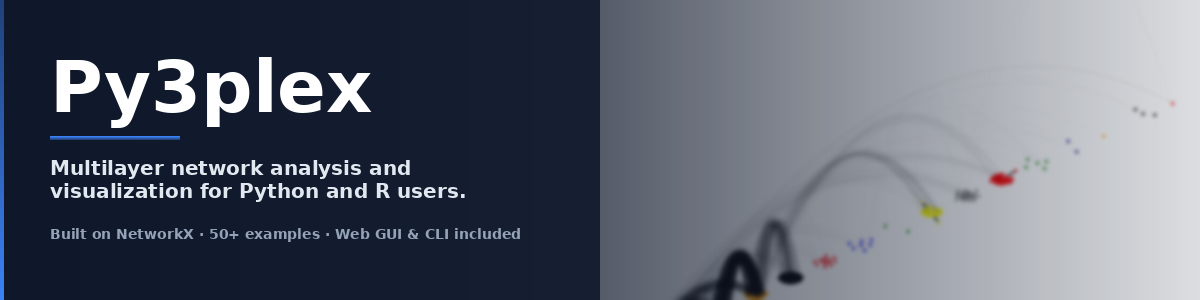
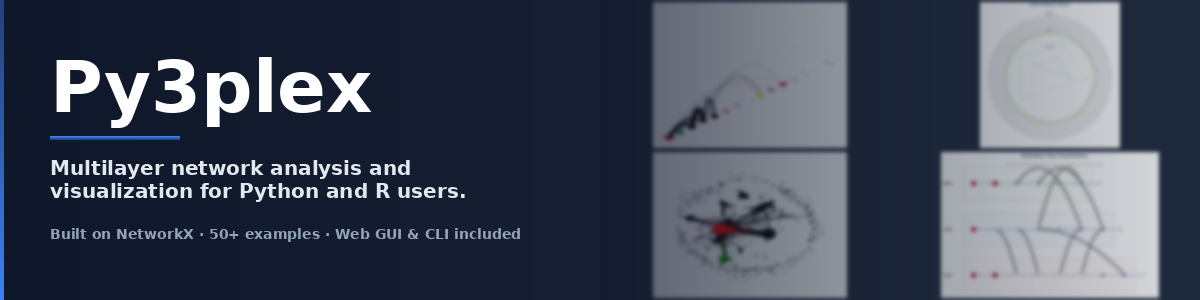
Replace single image with 2x2 mosaic grid showing diverse visualizations

diff --git a/create_hero_banner.py b/create_hero_banner.py
@@ -3,7 +3,7 @@ Create a professional hero banner for the Py3plex README.
 
 This script creates a modern, polished hero banner (1200x300 px) with:
 - Left side: Text block with gradient background and professional typography
-- Right side: Network visualization with sophisticated overlay effects
+- Right side: Mosaic of network visualizations showing diverse capabilities
 
 The banner uses a premium design with gradients, shadows, and accent colors.
 """
@@ -64,9 +64,82 @@ def add_glow_effect(draw, position, text, font, color, glow_color, glow_radius=2
     draw.text(position, text, fill=color, font=font)
 
 
+def create_mosaic(image_paths, mosaic_width, mosaic_height, grid_rows=2, grid_cols=2):
+    """
+    Create a mosaic of multiple images arranged in a grid.
+
+    Args:
+        image_paths: List of paths to images to include in mosaic
+        mosaic_width: Width of the resulting mosaic
+        mosaic_height: Height of the resulting mosaic
+        grid_rows: Number of rows in the grid
+        grid_cols: Number of columns in the grid
+
+    Returns:
+        PIL Image object containing the mosaic
+    """
+    # Create blank canvas for mosaic
+    mosaic = Image.new("RGB", (mosaic_width, mosaic_height), GRADIENT_END)
+
+    # Calculate cell dimensions
+    cell_width = mosaic_width // grid_cols
+    cell_height = mosaic_height // grid_rows
+
+    # Spacing between images (small gap)
+    gap = 2
+
+    # Place images in grid
+    img_index = 0
+    for row in range(grid_rows):
+        for col in range(grid_cols):
+            if img_index >= len(image_paths):
+                break
+
+            try:
+                # Load and resize image to fit cell
+                img = Image.open(image_paths[img_index])
+
+                # Calculate target size (with gap consideration)
+                target_width = cell_width - gap * 2
+                target_height = cell_height - gap * 2
+
+                # Resize while maintaining aspect ratio
+                img_aspect = img.width / img.height
+                cell_aspect = target_width / target_height
+
+                if img_aspect > cell_aspect:
+                    # Image is wider - fit to width
+                    new_width = target_width
+                    new_height = int(target_width / img_aspect)
+                else:
+                    # Image is taller - fit to height
+                    new_height = target_height
+                    new_width = int(target_height * img_aspect)
+
+                # Resize with high quality
+                try:
+                    img = img.resize((new_width, new_height), Image.Resampling.LANCZOS)
+                except AttributeError:
+                    img = img.resize((new_width, new_height), Image.LANCZOS)
+
+                # Center the image in the cell
+                x_offset = col * cell_width + (cell_width - new_width) // 2
+                y_offset = row * cell_height + (cell_height - new_height) // 2
+
+                # Paste the image
+                mosaic.paste(img, (x_offset, y_offset))
+
+            except Exception as e:
+                print(f"Warning: Could not load {image_paths[img_index]}: {e}")
+
+            img_index += 1
+
+    return mosaic
+
+
 def create_hero_banner(
     output_path="example_images/py3plex_hero_banner.png",
-    source_image="example_images/multilayer.png",
+    source_images=None,
     width=1200,
     height=300,
 ):
@@ -75,56 +148,42 @@ def create_hero_banner(
 
     Args:
         output_path: Path where the banner will be saved
-        source_image: Path to the network visualization to use
+        source_images: List of paths to network visualizations for mosaic (default: predefined selection)
         width: Banner width in pixels (default: 1200)
         height: Banner height in pixels (default: 300)
     """
+
+    # Default selection of diverse network visualizations for mosaic
+    if source_images is None:
+        source_images = [
+            "example_images/multilayer.png",  # Diagonal plot with inter-links
+            "example_images/multilayer_radial_compact.png",  # Radial layout
+            "example_images/communities.png",  # Community detection
+            "example_images/multilayer_flow.png",  # Flow visualization
+        ]
 
     # Create gradient background
     banner = create_gradient_background(width, height, GRADIENT_START, GRADIENT_END)
     draw = ImageDraw.Draw(banner)
 
-    # --- Right side: Network visualization ---
-    # Load the source network image
+    # --- Right side: Network visualization mosaic ---
+    # Create mosaic from multiple network images
     try:
-        network_img = Image.open(source_image)
-        print(f"✓ Loaded source image: {source_image} ({network_img.size})")
-
         # Calculate dimensions for the right side using layout constant
         right_width = int(width * RIGHT_SECTION_RATIO)
         right_x = width - right_width
 
-        # Resize and crop the network image to fit the right side
-        # Maintain aspect ratio and center crop
-        aspect_ratio = network_img.width / network_img.height
-        if aspect_ratio > (right_width / height):
-            # Image is wider - fit to height
-            new_height = height
-            new_width = int(height * aspect_ratio)
-        else:
-            # Image is taller - fit to width
-            new_width = right_width
-            new_height = int(right_width / aspect_ratio)
+        print(f"✓ Creating mosaic from {len(source_images)} images...")
+        # Create mosaic (2x2 grid by default)
+        mosaic_img = create_mosaic(
+            source_images, right_width, height, grid_rows=2, grid_cols=2
+        )
 
-        # Use LANCZOS resampling (compatible with older Pillow versions)
-        try:
-            network_img = network_img.resize(
-                (new_width, new_height), Image.Resampling.LANCZOS
-            )
-        except AttributeError:
-            # Fallback for older Pillow versions
-            network_img = network_img.resize((new_width, new_height), Image.LANCZOS)
+        # Apply a subtle blur for a sophisticated look
+        mosaic_img = mosaic_img.filter(ImageFilter.GaussianBlur(radius=BLUR_RADIUS))
 
-        # Center crop to exact dimensions
-        left = (new_width - right_width) // 2
-        top = (new_height - height) // 2
-        network_img = network_img.crop((left, top, left + right_width, top + height))
-
-        # Apply a moderate blur for a sophisticated look
-        network_img = network_img.filter(ImageFilter.GaussianBlur(radius=BLUR_RADIUS))
-
-        # Paste the network image on the right side
-        banner.paste(network_img, (right_x, 0))
+        # Paste the mosaic on the right side
+        banner.paste(mosaic_img, (right_x, 0))
 
         # Add a sophisticated gradient overlay from left to right
         # This creates depth and ensures text is readable
@@ -149,10 +208,10 @@ def create_hero_banner(
         banner = banner_rgba.convert("RGB")
         draw = ImageDraw.Draw(banner)
 
-        print("✓ Network visualization applied to right side")
+        print("✓ Mosaic visualization applied to right side")
 
     except Exception as e:
-        print(f"Warning: Could not load source image: {e}")
+        print(f"Warning: Could not create mosaic: {e}")
         print("Continuing with text-only banner...")
 
     # --- Left side: Professional text block ---
@@ -277,15 +336,34 @@ def main():
 
     # Configuration
     # You can change these paths if needed:
-    source_image = "example_images/multilayer.png"
+    source_images = [
+        "example_images/multilayer.png",  # Diagonal plot with inter-links
+        "example_images/multilayer_radial_compact.png",  # Radial layout
+        "example_images/communities.png",  # Community detection
+        "example_images/multilayer_flow.png",  # Flow visualization
+    ]
     output_path = "example_images/py3plex_hero_banner.png"
 
-    # Alternative source images you can try:
-    # - "example_images/multilayer_radial_compact.png" (radial/circular layout)
-    # - "example_images/multilayer_flow.png" (colorful flow visualization)
-    # - "example_images/multilayer_sankey_diagram.png" (sankey style)
+    # Alternative image selections you can try:
+    # Option 1: Different visualization types
+    # source_images = [
+    #     "example_images/multilayer.png",
+    #     "example_images/multilayer_sankey_diagram.png",
+    #     "example_images/embedding.png",
+    #     "example_images/hairball.png",
+    # ]
+    #
+    # Option 2: Focus on multilayer layouts
+    # source_images = [
+    #     "example_images/multilayer_edge_projection_spring.png",
+    #     "example_images/multilayer_radial_with_inter.png",
+    #     "example_images/multilayer_supra_heatmap_inter.png",
+    #     "example_images/multilayer_small_multiples_shared.png",
+    # ]
 
-    print(f"Source image: {source_image}")
+    print(f"Source images: {len(source_images)} images for mosaic")
+    for img in source_images:
+        print(f"  - {img}")
     print(f"Output path: {output_path}")
     print()
 
@@ -293,7 +371,7 @@ def main():
     try:
         create_hero_banner(
             output_path=output_path,
-            source_image=source_image,
+            source_images=source_images,
             width=1200,
             height=300,
         )
